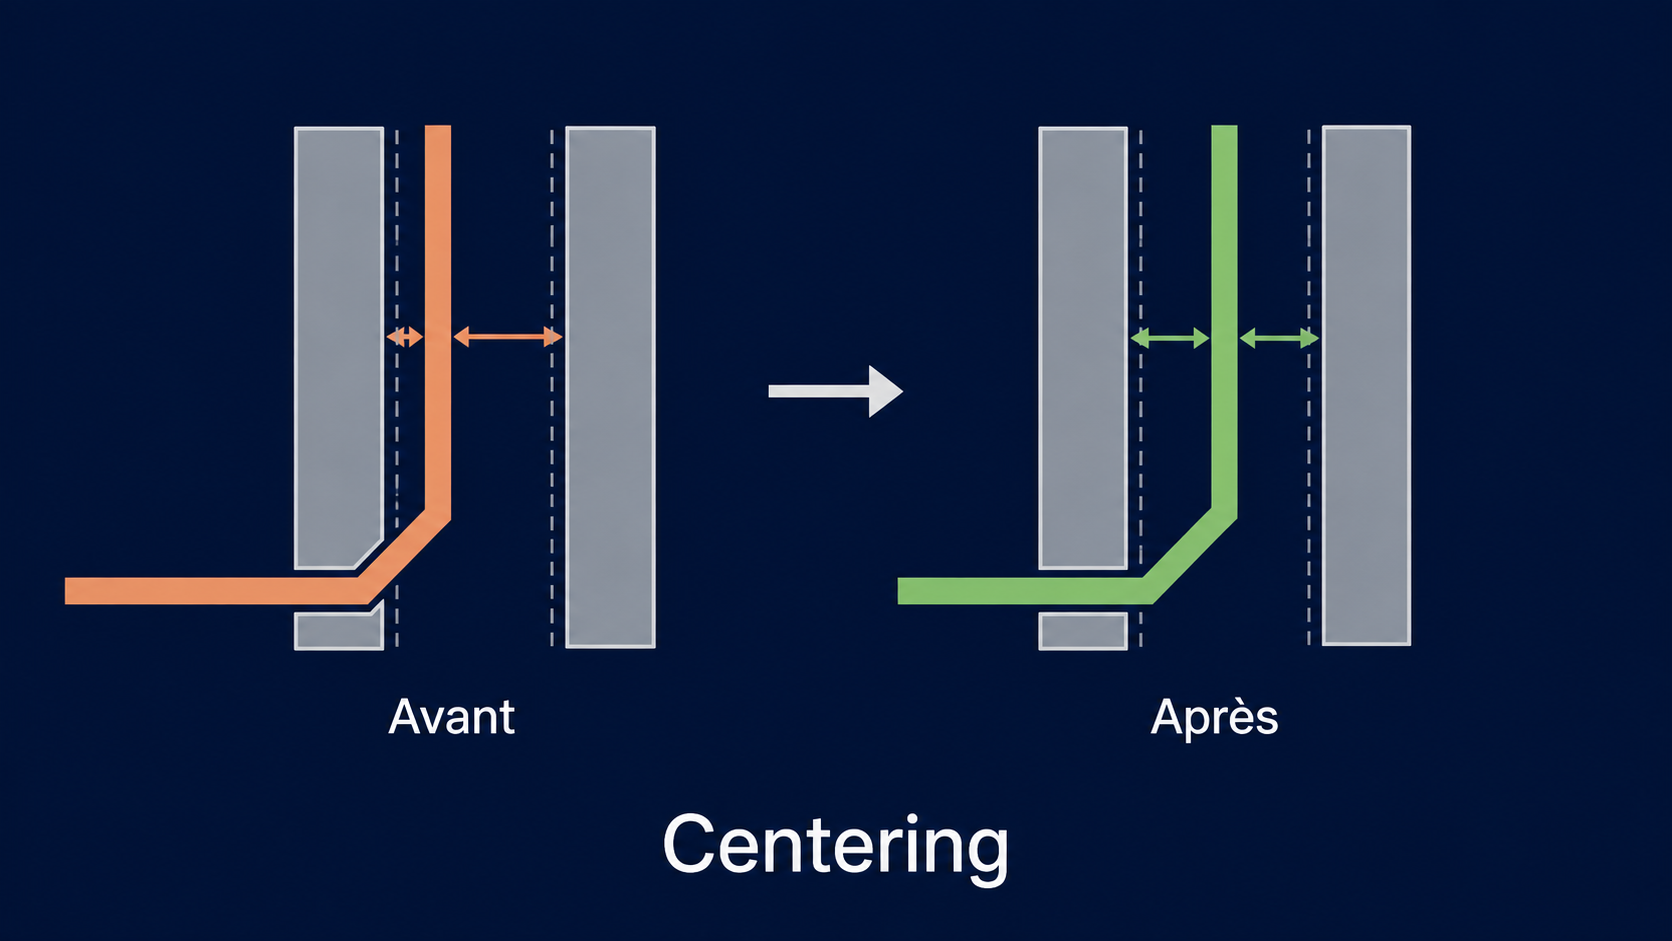
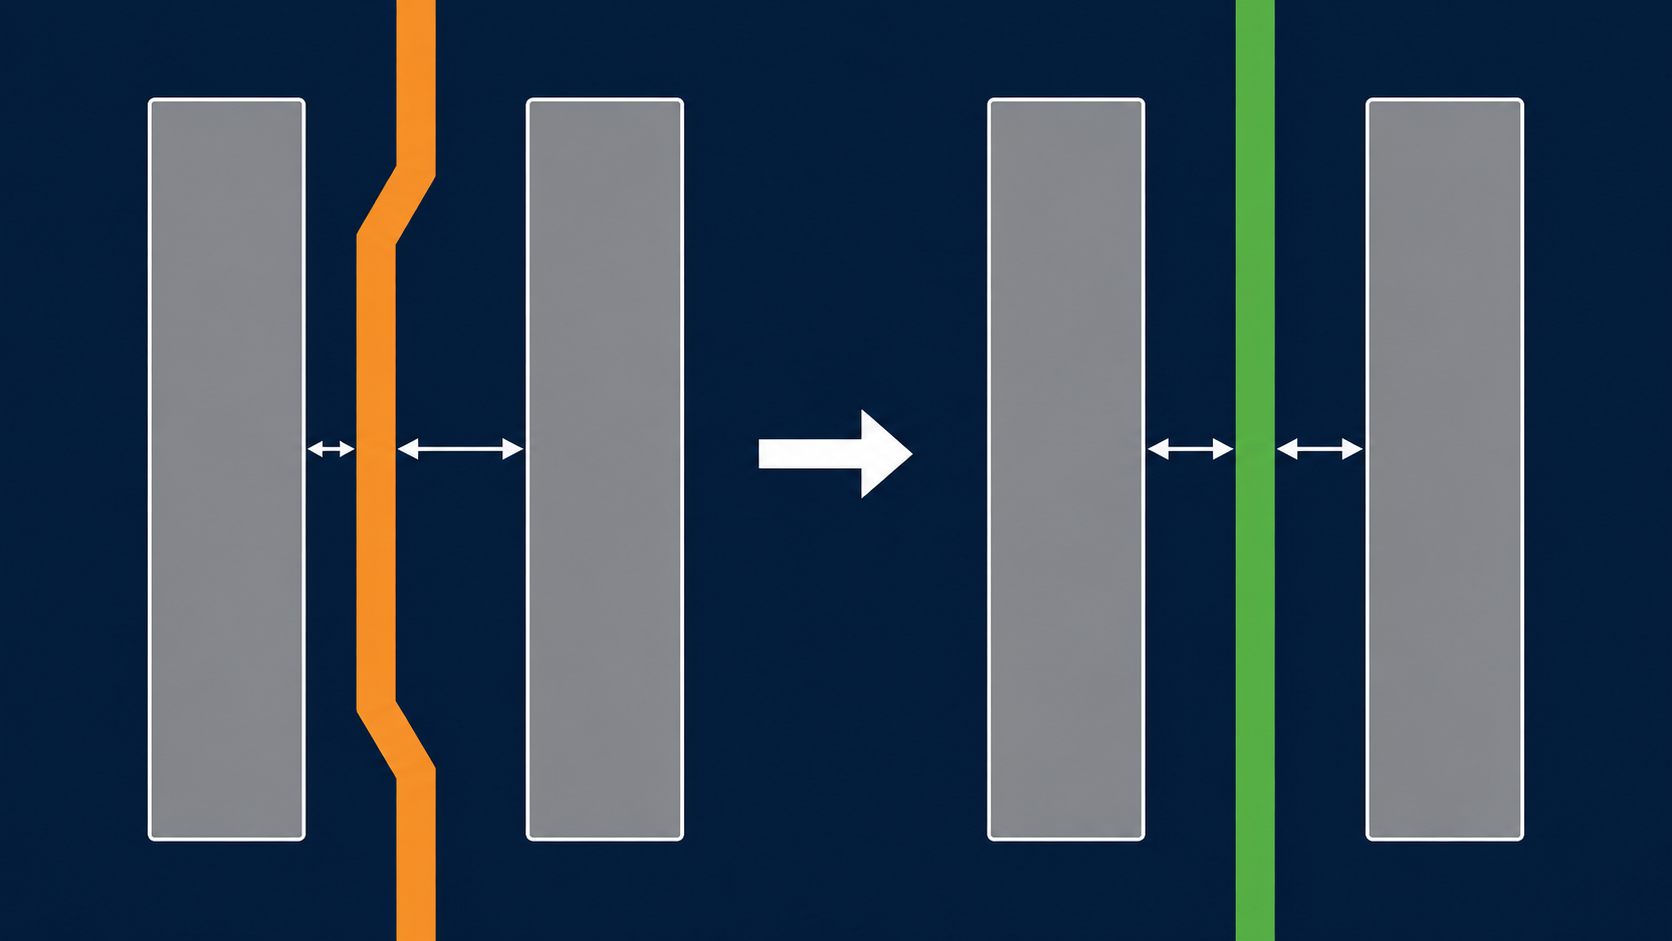
Illustrate Gloss and Centering documentation

diff --git a/dgloss/doc_en/gloss_rules.md b/dgloss/doc_en/gloss_rules.md
@@ -1,5 +1,8 @@
 # Track Gloss — reference specification
 
+This document defines the functional rules and invariants. For an accessible
+explanation of the two actions, see [`gloss_explain.md`](gloss_explain.md).
+
 ## Purpose
 
 Track Gloss is a final treatment of an existing route. It improves route
@@ -50,6 +53,8 @@ When a certificate tests only one particular deformation, failure means that
 this deformation is not certified; it does not prove that no other admissible
 deformation exists.
 
+![A continuous admissible movement goes around obstacles; a direct route through them is rejected.](../../docs/assets/admissible-corridor.png)
+
 ## Exclusion
 
 Before any transformation, the following nets are excluded in full from the
@@ -66,10 +71,22 @@ override their protection.
 
 ## Sequencing
 
-Length-reduction phases run before centering. Centering has a distinct
-objective: it may preserve or slightly increase length to improve passage
-between obstacles. It is therefore not subject to the minimum-gain condition
-required by length-reduction phases.
+Gloss and Centering are distinct actions with different objectives. Gloss
+reduces and simplifies; Centering places a track as well as possible in a
+passage. Centering may preserve or slightly increase length, so it is not
+subject to the minimum-gain condition used by length-reduction phases.
+
+When Centering is requested, the sequence is mandatory and atomic:
+
+1. run Gloss with `stay_in_corridor=True`;
+2. run Centering on that result;
+3. apply no further geometry transformation after Centering.
+
+Centering is therefore the final geometry transformation of the action. On
+failure, budget expiration, or non-compliance, the input is restored according
+to the transaction policy.
+
+![Gloss first removes safe detours; Centering then places the track in its passage.](../../docs/assets/centering-before-after.png)
 
 ## Scope
 
@@ -103,6 +120,8 @@ via may be mobile only when all four conditions below hold:
 
 When a via is mobile, its diameter, drill, type, net, and layer span remain
 unchanged. Its initial position remains a valid fallback solution.
+
+![Moving a via is useful only when it shortens the two track legs leading to it.](../../docs/assets/mobile-via-reduces-length.png)
 
 ### T junctions and nodes
 

diff --git a/dgloss/doc_fr/gloss_explain.md b/dgloss/doc_fr/gloss_explain.md
@@ -44,6 +44,10 @@ Une piste ne peut pas, par exemple, passer de l'autre côté d'un obstacle parce
 que sa seule position finale serait libre. La même règle s'applique aux vias et
 aux jonctions lorsqu'ils sont mobiles.
 
+#### Illustration — Mouvement continu autour des obstacles
+
+![Un trajet continu sûr contourne les obstacles, contrairement au trajet direct barré.](../../docs/assets/admissible-corridor.png)
+
 ## 3. Le Gloss
 
 ### 3.1 Son but
@@ -79,6 +83,10 @@ Un gain trop petit pour être distingué de la résolution de la grille n'est pa
 retenu. Cela évite les changements invisibles, instables ou créant de très
 petits segments.
 
+#### Illustration — Même connexion, moins de segments
+
+![Une piste en zigzag est remplacée par une piste plus simple aux mêmes extrémités.](../../docs/assets/segment-count-reduction.png)
+
 ### 3.4 Ce que le Gloss peut améliorer
 
 Le Gloss peut notamment enlever un détour entre des segments voisins, fusionner
@@ -87,6 +95,10 @@ via ou une jonction lorsque leur mobilité est explicitement autorisée. Chaque
 amélioration reste locale : elle ne donne pas le droit de déplacer un élément
 fixe, de modifier une zone protégée ou de changer la fonction électrique d'une
 connexion.
+
+#### Illustration — Déplacer un via pour raccourcir ses deux jambes
+
+![Un via déplacé sur une position plus directe réduit les deux portions de piste qui y aboutissent.](../../docs/assets/mobile-via-reduces-length.png)
 
 ## 4. Le Centering
 
@@ -120,6 +132,10 @@ axes, tout en raccordant les portions avant et après chaque passage.
 Cette construction est guidée par le passage entre obstacles, et non par la
 longueur minimale. Le résultat peut donc être un peu plus long que celui du
 Gloss seul.
+
+#### Illustration — Centrage à travers plusieurs portes
+
+![Une même piste est recentrée dans deux passages successifs.](../../docs/assets/multiple-gates-centering.png)
 
 ## 5. Enchaînement des actions
 

diff --git a/dgloss/doc_fr/gloss_rules.md b/dgloss/doc_fr/gloss_rules.md
@@ -55,6 +55,8 @@ Lorsqu'un certificat ne teste qu'une déformation particulière, son échec
 signifie que cette déformation n'est pas certifiée ; il ne prouve pas qu'aucune
 autre déformation admissible n'existe.
 
+![Un mouvement continu admissible contourne les obstacles ; un trajet direct qui les traverse est refusé.](../../docs/assets/admissible-corridor.png)
+
 ## Exclusion
 
 Avant toute transformation, les nets suivants sont exclus intégralement de la
@@ -86,6 +88,8 @@ Lorsqu'un Centering est demandé, l'enchaînement est impératif et atomique :
 Le Centering est ainsi la dernière transformation géométrique de l'action. En
 cas d'échec, de budget expiré ou de non-conformité de cette action combinée, le
 résultat initial est restauré selon la politique transactionnelle.
+
+![Le Gloss réduit d'abord les détours, puis le Centering place la piste dans le passage.](../../docs/assets/centering-before-after.png)
 
 Les mesures publiées pour une action Gloss couvrent toute l'action, depuis le
 cuivre reçu en entrée jusqu'au cuivre final. La longueur initiale, le nombre de
@@ -170,6 +174,8 @@ sont toutes satisfaites :
 Lorsqu'un via est mobile, son diamètre, son percement, son type, son net et sa
 plage de couches restent inchangés. Sa position initiale demeure une solution
 de repli valide.
+
+![Le déplacement d'un via n'est retenu que lorsqu'il raccourcit les deux portions de piste qui y aboutissent.](../../docs/assets/mobile-via-reduces-length.png)
 
 ### T et nœuds
 
